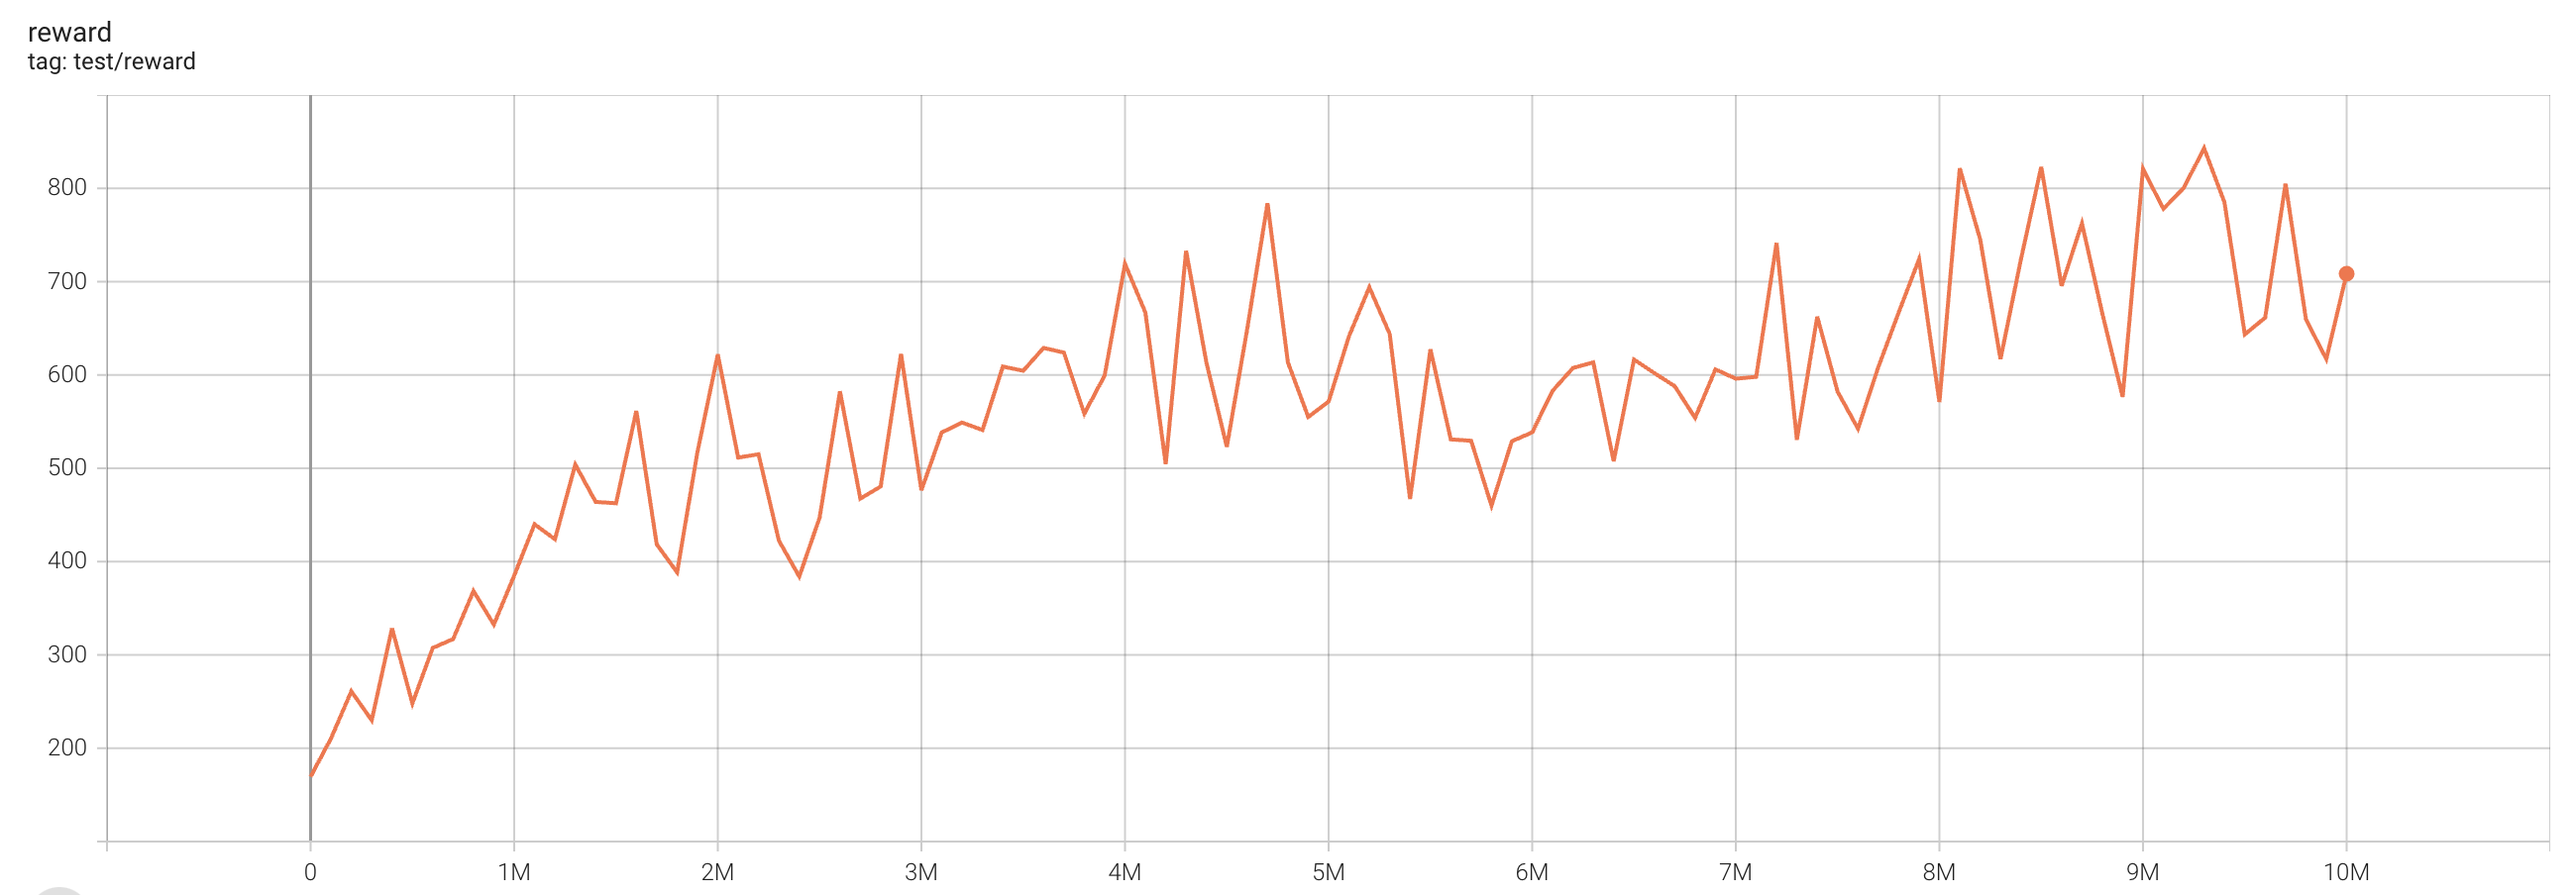
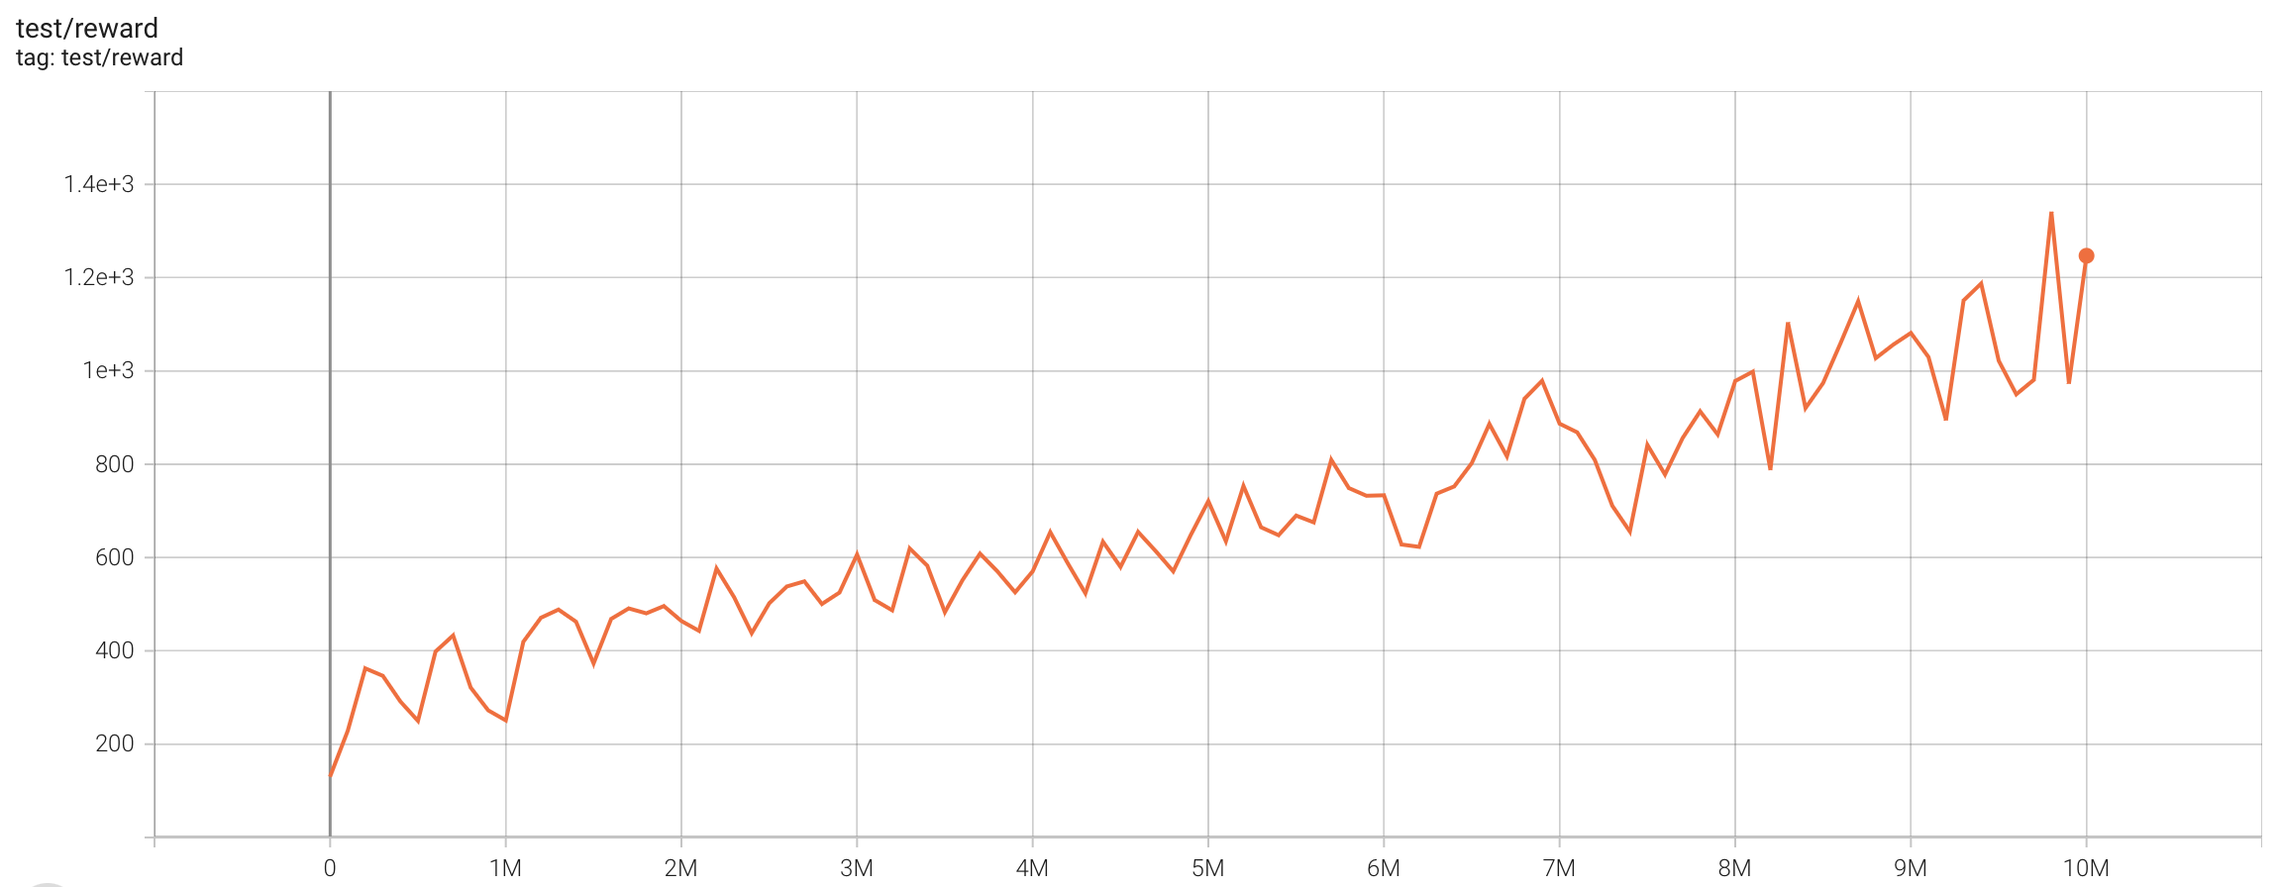
Fix Atari PPO example (#780)
- [x] I have marked all applicable categories:
    + [ ] exception-raising fix
    + [x] algorithm implementation fix
    + [ ] documentation modification
    + [ ] new feature
- [x] I have reformatted the code using `make format` (**required**)
- [x] I have checked the code using `make commit-checks` (**required**)
- [x] If applicable, I have mentioned the relevant/related issue(s)
- [x] If applicable, I have listed every items in this Pull Request
below

While trying to debug Atari PPO+LSTM, I found significant gap between
our Atari PPO example vs [CleanRL's Atari PPO w/
EnvPool](https://docs.cleanrl.dev/rl-algorithms/ppo/#ppo_atari_envpoolpy).
I tried to align our implementation with CleaRL's version, mostly in
hyper parameter choices, and got significant gain in Breakout, Qbert,
SpaceInvaders while on par in other games. After this fix, I would
suggest updating our [Atari
Benchmark](https://tianshou.readthedocs.io/en/master/tutorials/benchmark.html)
PPO experiments.

A few interesting findings:

- Layer initialization helps stabilize the training and enable the use
of larger learning rates; without it, larger learning rates will trigger
NaN gradient very quickly;
- ppo.py#L97-L101: this change helps training stability for reasons I do
not understand; also it makes the GPU usage higher.

Shoutout to [CleanRL](https://github.com/vwxyzjn/cleanrl) for a
well-tuned Atari PPO reference implementation!

diff --git a/examples/atari/atari_ppo.py b/examples/atari/atari_ppo.py
@@ -5,7 +5,7 @@ import pprint
 
 import numpy as np
 import torch
-from atari_network import DQN
+from atari_network import DQN, layer_init, scale_obs
 from atari_wrapper import make_atari_env
 from torch.optim.lr_scheduler import LambdaLR
 from torch.utils.tensorboard import SummaryWriter
@@ -22,9 +22,9 @@ def get_args():
     parser = argparse.ArgumentParser()
     parser.add_argument("--task", type=str, default="PongNoFrameskip-v4")
     parser.add_argument("--seed", type=int, default=4213)
-    parser.add_argument("--scale-obs", type=int, default=0)
+    parser.add_argument("--scale-obs", type=int, default=1)
     parser.add_argument("--buffer-size", type=int, default=100000)
-    parser.add_argument("--lr", type=float, default=5e-5)
+    parser.add_argument("--lr", type=float, default=2.5e-4)
     parser.add_argument("--gamma", type=float, default=0.99)
     parser.add_argument("--epoch", type=int, default=100)
     parser.add_argument("--step-per-epoch", type=int, default=100000)
@@ -35,14 +35,14 @@ def get_args():
     parser.add_argument("--training-num", type=int, default=10)
     parser.add_argument("--test-num", type=int, default=10)
     parser.add_argument("--rew-norm", type=int, default=False)
-    parser.add_argument("--vf-coef", type=float, default=0.5)
+    parser.add_argument("--vf-coef", type=float, default=0.25)
     parser.add_argument("--ent-coef", type=float, default=0.01)
     parser.add_argument("--gae-lambda", type=float, default=0.95)
     parser.add_argument("--lr-decay", type=int, default=True)
     parser.add_argument("--max-grad-norm", type=float, default=0.5)
-    parser.add_argument("--eps-clip", type=float, default=0.2)
+    parser.add_argument("--eps-clip", type=float, default=0.1)
     parser.add_argument("--dual-clip", type=float, default=None)
-    parser.add_argument("--value-clip", type=int, default=0)
+    parser.add_argument("--value-clip", type=int, default=1)
     parser.add_argument("--norm-adv", type=int, default=1)
     parser.add_argument("--recompute-adv", type=int, default=0)
     parser.add_argument("--logdir", type=str, default="log")
@@ -94,7 +94,7 @@ def test_ppo(args=get_args()):
         args.seed,
         args.training_num,
         args.test_num,
-        scale=args.scale_obs,
+        scale=0,
         frame_stack=args.frames_stack,
     )
     args.state_shape = env.observation_space.shape or env.observation_space.n
@@ -106,16 +106,20 @@ def test_ppo(args=get_args()):
     np.random.seed(args.seed)
     torch.manual_seed(args.seed)
     # define model
-    net = DQN(
+    net_cls = scale_obs(DQN) if args.scale_obs else DQN
+    net = net_cls(
         *args.state_shape,
         args.action_shape,
         device=args.device,
         features_only=True,
-        output_dim=args.hidden_size
+        output_dim=args.hidden_size,
+        layer_init=layer_init,
     )
     actor = Actor(net, args.action_shape, device=args.device, softmax_output=False)
     critic = Critic(net, device=args.device)
-    optim = torch.optim.Adam(ActorCritic(actor, critic).parameters(), lr=args.lr)
+    optim = torch.optim.Adam(
+        ActorCritic(actor, critic).parameters(), lr=args.lr, eps=1e-5
+    )
 
     lr_scheduler = None
     if args.lr_decay:

diff --git a/examples/atari/atari_network.py b/examples/atari/atari_network.py
@@ -1,10 +1,33 @@
-from typing import Any, Dict, Optional, Sequence, Tuple, Union
+from typing import Any, Callable, Dict, Optional, Sequence, Tuple, Type, Union
 
 import numpy as np
 import torch
 from torch import nn
 
 from tianshou.utils.net.discrete import NoisyLinear
+
+
+def layer_init(
+    layer: nn.Module, std: float = np.sqrt(2), bias_const: float = 0.0
+) -> nn.Module:
+    torch.nn.init.orthogonal_(layer.weight, std)
+    torch.nn.init.constant_(layer.bias, bias_const)
+    return layer
+
+
+def scale_obs(module: Type[nn.Module], denom: float = 255.0) -> Type[nn.Module]:
+
+    class scaled_module(module):
+
+        def forward(
+            self,
+            obs: Union[np.ndarray, torch.Tensor],
+            state: Optional[Any] = None,
+            info: Dict[str, Any] = {}
+        ) -> Tuple[torch.Tensor, Any]:
+            return super().forward(obs / denom, state, info)
+
+    return scaled_module
 
 
 class DQN(nn.Module):
@@ -23,26 +46,30 @@ class DQN(nn.Module):
         device: Union[str, int, torch.device] = "cpu",
         features_only: bool = False,
         output_dim: Optional[int] = None,
+        layer_init: Callable[[nn.Module], nn.Module] = lambda x: x,
     ) -> None:
         super().__init__()
         self.device = device
         self.net = nn.Sequential(
-            nn.Conv2d(c, 32, kernel_size=8, stride=4), nn.ReLU(inplace=True),
-            nn.Conv2d(32, 64, kernel_size=4, stride=2), nn.ReLU(inplace=True),
-            nn.Conv2d(64, 64, kernel_size=3, stride=1), nn.ReLU(inplace=True),
-            nn.Flatten()
+            layer_init(nn.Conv2d(c, 32, kernel_size=8, stride=4)),
+            nn.ReLU(inplace=True),
+            layer_init(nn.Conv2d(32, 64, kernel_size=4, stride=2)),
+            nn.ReLU(inplace=True),
+            layer_init(nn.Conv2d(64, 64, kernel_size=3, stride=1)),
+            nn.ReLU(inplace=True), nn.Flatten()
         )
         with torch.no_grad():
             self.output_dim = np.prod(self.net(torch.zeros(1, c, h, w)).shape[1:])
         if not features_only:
             self.net = nn.Sequential(
-                self.net, nn.Linear(self.output_dim, 512), nn.ReLU(inplace=True),
-                nn.Linear(512, np.prod(action_shape))
+                self.net, layer_init(nn.Linear(self.output_dim, 512)),
+                nn.ReLU(inplace=True),
+                layer_init(nn.Linear(512, np.prod(action_shape)))
             )
             self.output_dim = np.prod(action_shape)
         elif output_dim is not None:
             self.net = nn.Sequential(
-                self.net, nn.Linear(self.output_dim, output_dim),
+                self.net, layer_init(nn.Linear(self.output_dim, output_dim)),
                 nn.ReLU(inplace=True)
             )
             self.output_dim = output_dim

diff --git a/tianshou/policy/modelfree/ppo.py b/tianshou/policy/modelfree/ppo.py
@@ -79,9 +79,6 @@ class PPOPolicy(A2CPolicy):
             "Dual-clip PPO parameter should greater than 1.0."
         self._dual_clip = dual_clip
         self._value_clip = value_clip
-        if not self._rew_norm:
-            assert not self._value_clip, \
-                "value clip is available only when `reward_normalization` is True"
         self._norm_adv = advantage_normalization
         self._recompute_adv = recompute_advantage
         self._actor_critic: ActorCritic
@@ -94,11 +91,8 @@ class PPOPolicy(A2CPolicy):
             self._buffer, self._indices = buffer, indices
         batch = self._compute_returns(batch, buffer, indices)
         batch.act = to_torch_as(batch.act, batch.v_s)
-        old_log_prob = []
         with torch.no_grad():
-            for minibatch in batch.split(self._batch, shuffle=False, merge_last=True):
-                old_log_prob.append(self(minibatch).dist.log_prob(minibatch.act))
-        batch.logp_old = torch.cat(old_log_prob, dim=0)
+            batch.logp_old = self(batch).dist.log_prob(batch.act)
         return batch
 
     def learn(  # type: ignore
@@ -113,7 +107,8 @@ class PPOPolicy(A2CPolicy):
                 dist = self(minibatch).dist
                 if self._norm_adv:
                     mean, std = minibatch.adv.mean(), minibatch.adv.std()
-                    minibatch.adv = (minibatch.adv - mean) / std  # per-batch norm
+                    minibatch.adv = (minibatch.adv -
+                                     mean) / (std + self._eps)  # per-batch norm
                 ratio = (dist.log_prob(minibatch.act) -
                          minibatch.logp_old).exp().float()
                 ratio = ratio.reshape(ratio.size(0), -1).transpose(0, 1)

diff --git a/tianshou/trainer/base.py b/tianshou/trainer/base.py
@@ -356,7 +356,8 @@ class BaseTrainer(ABC):
             print(
                 f"Epoch #{self.epoch}: test_reward: {rew:.6f} ± {rew_std:.6f},"
                 f" best_reward: {self.best_reward:.6f} ± "
-                f"{self.best_reward_std:.6f} in #{self.best_epoch}"
+                f"{self.best_reward_std:.6f} in #{self.best_epoch}",
+                flush=True
             )
         if not self.is_run:
             test_stat = {

diff --git a/examples/atari/README.md b/examples/atari/README.md
@@ -114,13 +114,13 @@ One epoch here is equal to 100,000 env step, 100 epochs stand for 10M.
 
 | task                        | best reward | reward curve                          | parameters                                                   |
 | --------------------------- | ----------- | ------------------------------------- | ------------------------------------------------------------ |
-| PongNoFrameskip-v4          | 20.1        | ![](results/ppo/Pong_rew.png)         | `python3 atari_ppo.py --task "PongNoFrameskip-v4"` |
-| BreakoutNoFrameskip-v4      | 438.5        | ![](results/ppo/Breakout_rew.png)     | `python3 atari_ppo.py --task "BreakoutNoFrameskip-v4"` |
-| EnduroNoFrameskip-v4        | 1304.8       | ![](results/ppo/Enduro_rew.png)       | `python3 atari_ppo.py --task "EnduroNoFrameskip-v4"`  |
-| QbertNoFrameskip-v4         | 13640      | ![](results/ppo/Qbert_rew.png)        | `python3 atari_ppo.py --task "QbertNoFrameskip-v4"`  |
-| MsPacmanNoFrameskip-v4      | 1930       | ![](results/ppo/MsPacman_rew.png)     | `python3 atari_ppo.py --task "MsPacmanNoFrameskip-v4"`  |
-| SeaquestNoFrameskip-v4      | 904      | ![](results/ppo/Seaquest_rew.png)     | `python3 atari_ppo.py --task "SeaquestNoFrameskip-v4" --lr 2.5e-5`  |
-| SpaceInvadersNoFrameskip-v4 | 843       | ![](results/ppo/SpaceInvaders_rew.png) | `python3 atari_ppo.py --task "SpaceInvadersNoFrameskip-v4"`  |
+| PongNoFrameskip-v4          | 20.2        | ![](results/ppo/Pong_rew.png)         | `python3 atari_ppo.py --task "PongNoFrameskip-v4"` |
+| BreakoutNoFrameskip-v4      | 441.8        | ![](results/ppo/Breakout_rew.png)     | `python3 atari_ppo.py --task "BreakoutNoFrameskip-v4"` |
+| EnduroNoFrameskip-v4        | 1245.4       | ![](results/ppo/Enduro_rew.png)       | `python3 atari_ppo.py --task "EnduroNoFrameskip-v4"`  |
+| QbertNoFrameskip-v4         | 17395      | ![](results/ppo/Qbert_rew.png)        | `python3 atari_ppo.py --task "QbertNoFrameskip-v4"`  |
+| MsPacmanNoFrameskip-v4      | 2098       | ![](results/ppo/MsPacman_rew.png)     | `python3 atari_ppo.py --task "MsPacmanNoFrameskip-v4"`  |
+| SeaquestNoFrameskip-v4      | 882      | ![](results/ppo/Seaquest_rew.png)     | `python3 atari_ppo.py --task "SeaquestNoFrameskip-v4" --lr 1e-4`  |
+| SpaceInvadersNoFrameskip-v4 | 1340.5       | ![](results/ppo/SpaceInvaders_rew.png) | `python3 atari_ppo.py --task "SpaceInvadersNoFrameskip-v4"`  |
 
 # SAC (single run)
 
